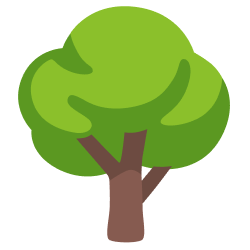
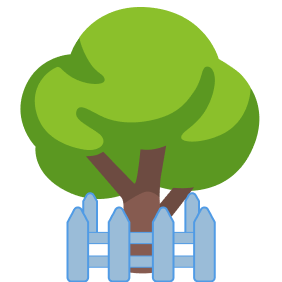
:bug: feat: 물주기 api 체크 선택/해제 수정 #63

diff --git a/js/chaemin-js/main2x.js b/js/chaemin-js/main2x.js
@@ -1,4 +1,4 @@
-var API_SERVER_DOMAIN = "http://3.34.241.109:8080";
+const API_SERVER_DOMAIN = "http://3.34.241.109:8080";
 
 function getCookie(name) {
   var nameEQ = name + "=";
@@ -27,7 +27,8 @@ document.addEventListener("DOMContentLoaded", () => {
   let initiallyChecked = new Set();
 
   const updateCount = () => {
-    todoCount.textContent = totalWateringCount;
+    const currentCheckedCount = countChecked();
+    todoCount.textContent = totalWateringCount + currentCheckedCount;
   };
 
   const initializePage = () => {
@@ -116,11 +117,6 @@ document.addEventListener("DOMContentLoaded", () => {
   };
 
   const handleCheckboxChange = (checkbox, span, activityId) => {
-    if (initiallyChecked.has(checkbox) && !checkbox.checked) {
-      checkbox.checked = true;
-      return;
-    }
-
     if (checkbox.checked) {
       span.style.textDecoration = "line-through";
       exp += 1;
@@ -137,27 +133,43 @@ document.addEventListener("DOMContentLoaded", () => {
 
     const accessToken = getCookie("accessToken");
 
-    fetch(`${API_SERVER_DOMAIN}/api/activity/check`, {
+    fetch(`${API_SERVER_DOMAIN}/api/activity/check?activityId=${activityId}`, {
       method: "POST",
       headers: {
         "Content-Type": "application/json",
         Authorization: "Bearer " + accessToken,
       },
-      body: JSON.stringify({
-        activityId: activityId,
-        isChecked: true,
-      }),
     })
       .then((response) => {
         if (!response.ok) {
           throw new Error("Failed to update activity check status.");
         }
-        return response.json(); // JSON 파싱
       })
       .then((data) => {
-        // 파싱된 JSON 데이터를 사용
         console.log("Successfully updated activity check status!", data);
-        // 여기서 data는 JSON 형식의 JavaScript 객체입니다.
+      })
+      .catch((error) => {
+        console.error("Error updating activity check status:", error);
+        alert("활동 체크 상태 업데이트에 실패하였습니다.");
+      });
+
+    fetch(
+      `${API_SERVER_DOMAIN}/api/activity/uncheck?activityId=${activityId}`,
+      {
+        method: "POST",
+        headers: {
+          "Content-Type": "application/json",
+          Authorization: "Bearer " + accessToken,
+        },
+      }
+    )
+      .then((response) => {
+        if (!response.ok) {
+          throw new Error("Failed to update activity check status.");
+        }
+      })
+      .then((data) => {
+        console.log("Successfully updated activity check status!", data);
       })
       .catch((error) => {
         console.error("Error updating activity check status:", error);

diff --git a/js/chaemin-js/main1.js b/js/chaemin-js/main1.js
@@ -1,3 +1,20 @@
+var API_SERVER_DOMAIN = "http://3.34.241.109:8080";
+
+function getCookie(name) {
+  var nameEQ = name + "=";
+  var cookies = document.cookie.split(";");
+  for (var i = 0; i < cookies.length; i++) {
+    var cookie = cookies[i];
+    while (cookie.charAt(0) === " ") {
+      cookie = cookie.substring(1, cookie.length);
+    }
+    if (cookie.indexOf(nameEQ) === 0) {
+      return cookie.substring(nameEQ.length, cookie.length);
+    }
+  }
+  return null;
+}
+
 document.addEventListener("DOMContentLoaded", () => {
   const levelDisplay = document.querySelector("#level");
   const expDisplay = document.querySelector("#exp");
@@ -73,30 +90,34 @@ document.addEventListener("DOMContentLoaded", () => {
         plantImage.src = plantImages[1];
       } else if (level <= 9) {
         plantImage.src = plantImages[2];
+        plantImage.style.width = "250px";
+        plantImage.style.height = "250px";
       } else {
         plantImage.src = plantImages[3];
         wateringcanImage.style.display = "none";
         sunImage.style.display = "none";
         plantImage.classList.add("location");
         plantButton.style.display = "block";
+        plantImage.style.width = "230px";
+        plantImage.style.height = "230px";
       }
     };
 
     updateLevelDisplay();
   };
 
-  // 초기화 버튼 클릭 시 레벨과 경험치 초기화
-  const resetLevelAndExp = () => {
-    localStorage.setItem("level", "1");
-    localStorage.setItem("exp", "0");
-    updateExpAndLevel();
-  };
+  // // 초기화 버튼 클릭 시 레벨과 경험치 초기화
+  // const resetLevelAndExp = () => {
+  //   localStorage.setItem("level", "1");
+  //   localStorage.setItem("exp", "0");
+  //   updateExpAndLevel();
+  // };
 
-  // 초기화 버튼에 이벤트 리스너 추가
+  // //초기화 버튼에 이벤트 리스너 추가
   // const resetButton = document.querySelector("#resetButton");
   // resetButton.addEventListener("click", resetLevelAndExp);
 
-  // 7레벨 설정 버튼 클릭 시 레벨 7로 설정
+  // //  7레벨 설정 버튼 클릭 시 레벨 7로 설정
   // setLevelButton.addEventListener("click", () => {
   //   localStorage.setItem("level", "7");
   //   localStorage.setItem("exp", "0");
